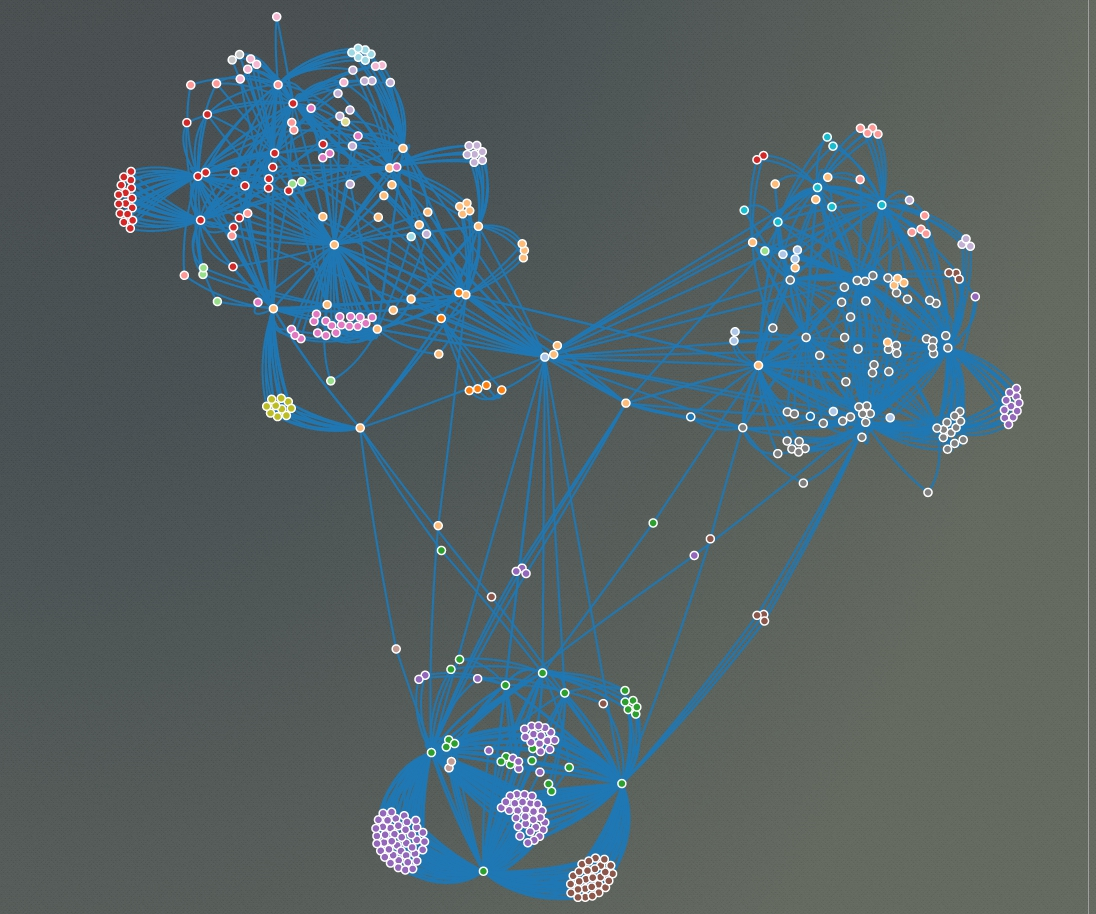
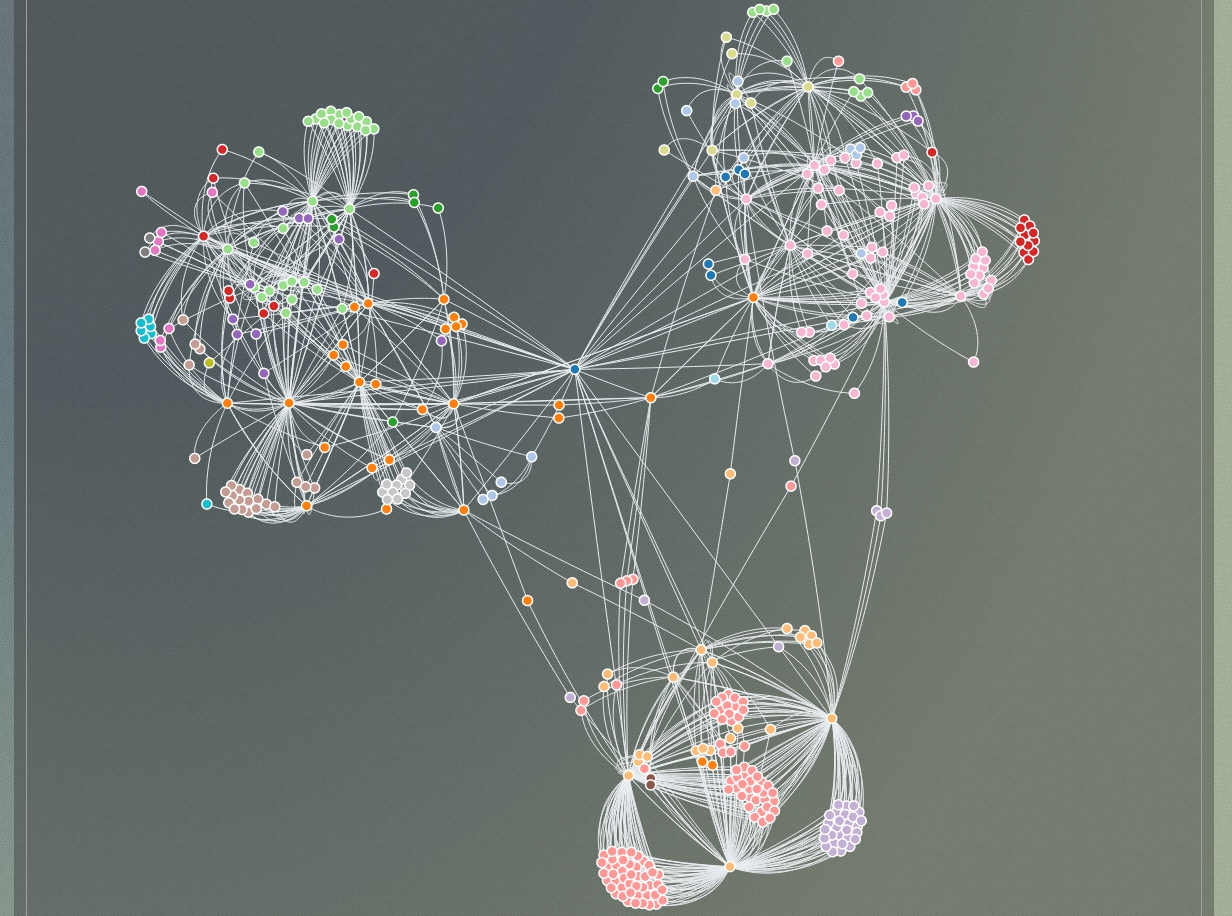
Исправление багов, оптимизация нодов графа

diff --git a/Visualization Samples/mainApp/svg.friend.graph.js b/Visualization Samples/mainApp/svg.friend.graph.js
@@ -4,9 +4,18 @@
 	h: 1500,
 	init: function (uid, data, dist, raduis) {
 
-		function isExist(uid) {
+		function isNodeExist(uid) {
 			var r = _.filter(graph.nodes, function (n) {
 				if (n.uid == uid) return n;
+			});
+
+			if (r.length != 0) return true;
+			else return false;
+		}
+		
+		function isLinkExist(link) {
+			var r = _.filter(graph.links, function (l) {
+				if (l.source == link.source && l.target == link.target) return l;
 			});
 
 			if (r.length != 0) return true;
@@ -20,14 +29,19 @@
 
 		var group = 1;
 		_.each(data, function (e) {
-			group++;
-			var p = { uid: e.uid, name: e.name, group: group };
-			if (!isExist(p.uid)) graph.nodes.push(p);
-			_.each(e.friends, function (f) {
-				var node = { uid: f.uid, name: f.last_name + ' ' + f.first_name, group: group };
-				if (!isExist(node.uid)) graph.nodes.push(node);
-				graph.links.push({ source: p.uid, target: node.uid, value: 1, group: group});
-			});
+			if (e.friends.length != 0) {
+				group++;
+				var p = { uid: e.uid, name: e.name, group: group };
+				if (!isNodeExist(p.uid)) graph.nodes.push(p);
+			
+				_.each(e.friends, function (f) {
+					var node = { uid: f.uid, name: f.last_name + ' ' + f.first_name, group: group };
+					if (!isNodeExist(node.uid)) graph.nodes.push(node);
+
+					var link = { source: p.uid, target: node.uid, value: 1 };
+					if (!isLinkExist(link)) graph.links.push(link);
+				});
+			}
 		});
 
 		var color = d3.scale.category20();
@@ -37,7 +51,10 @@
 			.linkStrength(5)
 			.size([this.w(), this.h]);
 
-		var svg = d3.select('div[svgfriend]').append("svg")
+		d3.select('svg').remove();// удаляем граф если он уже есть
+		
+		var svg = d3.select('div[svgfriend]')
+			.append("svg")
 			.attr("width", this.w())
 			.attr("height", this.h);
 
@@ -63,18 +80,19 @@
 			.links(links)
 			.start();
 
-		var link = svg.selectAll(".link")
+		var link = svg.selectAll(".mylink")
 			.data(bilinks)
 			.enter().append("path")
-			.attr("class", "link")
-			.style("stroke", function(d) { return color(d.group); });
+			.attr("class", "mylink")
+			.style("stroke", "#E9EDF1");
 
 		var node = svg.selectAll(".node")
 			.data(graph.nodes)
 			.enter().append("circle")
 			.attr("class", "node")
 			.attr("r", raduis)
-			.style("fill", function(d) { return color(d.group); });
+			.style("fill", function (d) { return color(d.group); })
+			.call(force.drag);
 
 		node.append("title").text(function (d) { return d.name; });
 
